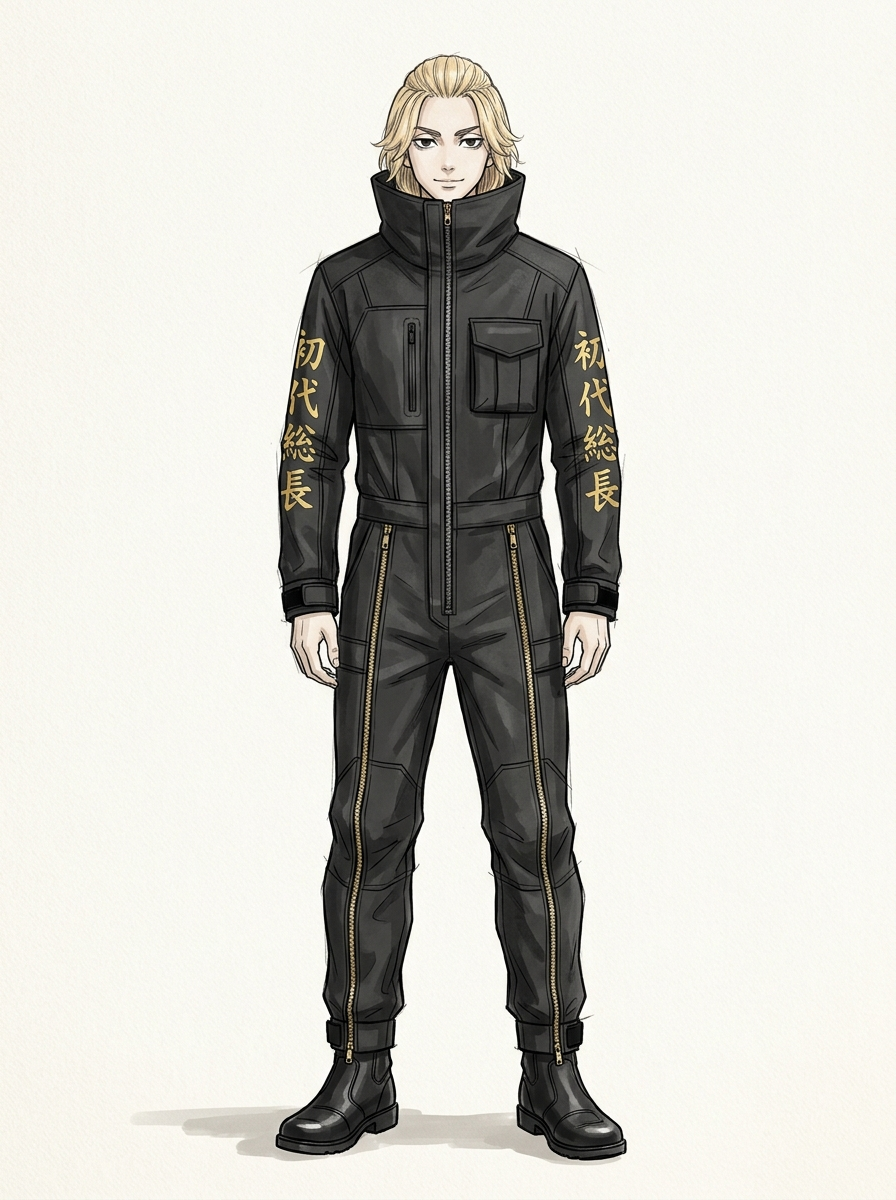
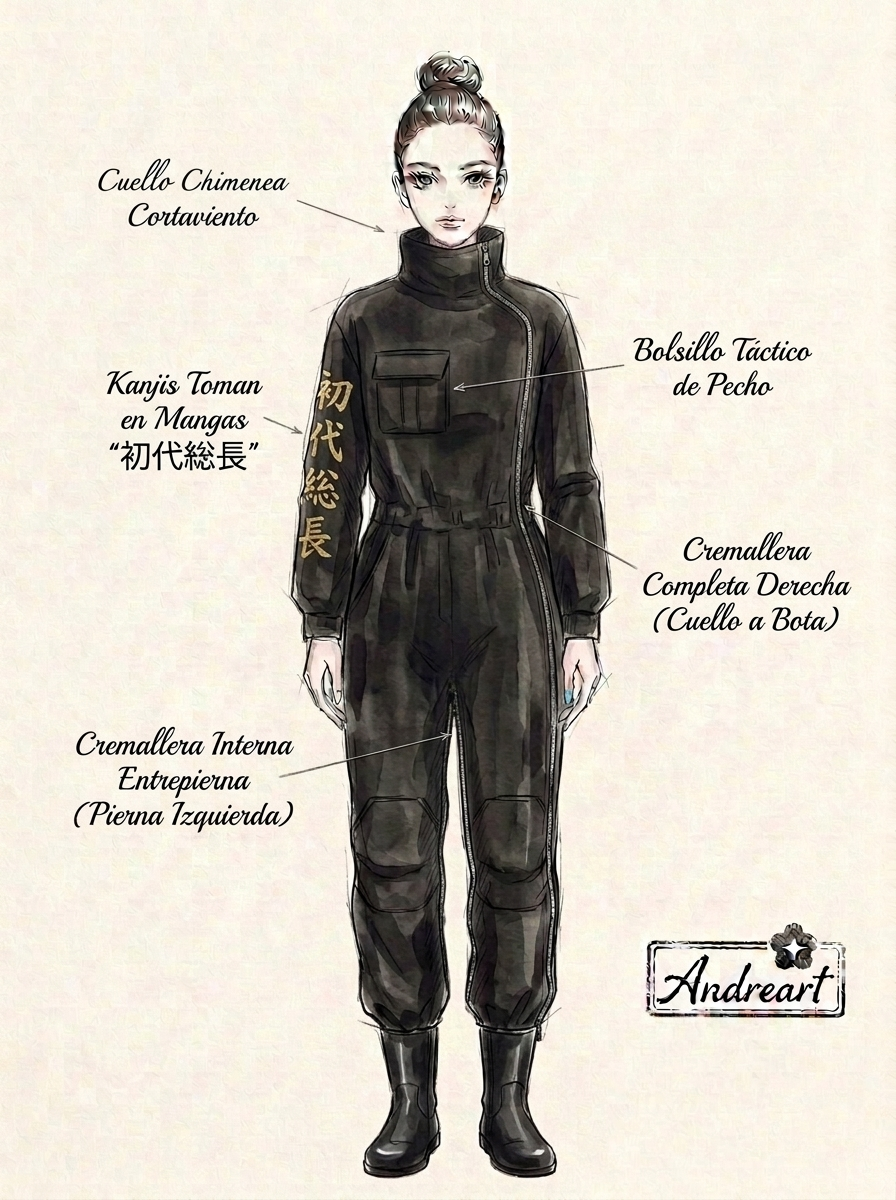
feat(over-rider-bosozoku): regenerar figurin frontal con tecnica canonica de taller y cremalleras asimetricas v1.1
- Aplicar tecnica de aguada de acuarela, tinta y lapiz sobre papel marfil (#F6F4EE) con sello Andreart
- Incorporar cremallera completa derecha (cuello a bota) y cremallera interna de entrepierna en pierna izquierda
- Preservar version previa en assets/.archive/
- Sincronizar SPEC.md, manifest.json e index.ts

diff --git a/Andreart Brain/01 Brand Context/Colecciones/Over-Rider Bosozoku/index.ts b/Andreart Brain/01 Brand Context/Colecciones/Over-Rider Bosozoku/index.ts
@@ -51,14 +51,14 @@ export const GARMENTS: CollectionGarment[] = [
     sku: 'ANDR-OVR-TOM-01',
     category: 'Prenda Enteriza Exterior (Oversuit)',
     textile: 'Cordura / Nylon Oxford 600D impermeable con forro térmico capitonado desmontable',
-    fit: 'Corte ergonómico precurvado para moto, cremalleras laterales de pierna completa, drop-seat trasero y serigrafía reflectiva kanjis Toman'
+    fit: 'Corte ergonómico precurvado para moto, cremallera completa lateral derecha (cuello a bota), cremallera interna de entrepierna en pierna izquierda, drop-seat trasero y serigrafía reflectiva kanjis Toman'
   },
   {
     name: 'Enterizo Over-Rider The Capsules',
     sku: 'ANDR-OVR-AKI-01',
     category: 'Prenda Enteriza Exterior (Oversuit)',
     textile: 'Cordura / Nylon Oxford 600D impermeable con forro térmico capitonado desmontable',
-    fit: 'Corte ergonómico precurvado para moto, cremalleras laterales de pierna completa, drop-seat trasero y emblema cápsula Akira reflectivo'
+    fit: 'Corte ergonómico precurvado para moto, cremallera completa lateral derecha (cuello a bota), cremallera interna de entrepierna en pierna izquierda, drop-seat trasero y emblema cápsula Akira reflectivo'
   }
 ];
 
@@ -70,8 +70,8 @@ export const ASSETS: Record<string, CollectionAsset> = {
     category: 'figurine',
     garment: 'Enterizo Over-Rider Toman Shodai',
     view: 'frente-pasarela',
-    description: 'Figurín de autor anime inspirado en Mikey luciendo el enterizo técnico motero en Jet Black (#0D0D0E) con cuello chimenea, cremallera central bidireccional, bolsillos técnicos y caligrafía dorada reflectiva "初代総長" en mangas.',
-    sourceReference: './references/refe-vista-frontal-puesta.jpg',
+    description: 'Figurín de autor a mano alzada en acuarela sobre papel marfil (#F6F4EE) luciendo el enterizo técnico motero en Jet Black (#0D0D0E) con cremallera completa lateral derecha (cuello a bota), cremallera interna de entrepierna en pierna izquierda, bolsillo táctico de pecho, kanjis dorados reflectivos "初代総長", llamadas técnicas y sello Andreart.',
+    sourceReference: './references/refe-vista-frontal-puesta.jpg, ./references/refe-apertura-total-capullo.jpg',
     status: 'active',
     approved: true
   },

diff --git a/Andreart Brain/01 Brand Context/Colecciones/Over-Rider Bosozoku/SPEC.md b/Andreart Brain/01 Brand Context/Colecciones/Over-Rider Bosozoku/SPEC.md
@@ -74,9 +74,9 @@ Diseñada para el motociclista contemporáneo que rechaza los uniformes genéric
 
 ## ⚙ 4. Ingeniería Textil y Ergonomía Motera
 
-### 4.1. Sistema de Apertura Dual Integral (Fast Step-In)
-• **Cremallera Central Frontal:** Cremallera continua bidireccional impermeable (cremallera de 2 carros) desde el borde del cuello chimenea hasta el tiro, cubierta por doble tapeta cortaviento con cierre hermético de velcro.  
-• **Cremalleras Laterales de Pierna Completa:** Cremalleras perimétricas que recorren desde la cadera/cintura hasta el dobladillo inferior del tobillo en ambas piernas. Permiten abrir completamente las perneras para introducir las piernas con botas gruesas de moto puestas, sin ensuciar el interior de la prenda.  
+### 4.1. Sistema de Apertura Asimétrico Fast Step-In (Ingeniería de Doble Cremallera)
+• **Cremallera Completa Continua en Lado Derecho (Cuello a Bota):** Cremallera perimétrica continua impermeable de alto calibre que recorre desde el cuello alto / hombro derecho, bajando verticalmente por el costado derecho del torso y a lo largo de toda la pernera derecha exterior hasta el tobillo y la bota. Al desabrocharse, abre todo el lateral derecho en abanico envolvente (tipo capullo) para colocarse y retirarse el enterizo en segundos con el calzado puesto.  
+• **Cremallera Interna de Entrepierna en Pierna Izquierda (Entrepierna a Bota):** Cremallera técnica continua ubicada en el borde interno (*inseam*) de la pierna izquierda, recorriendo desde el tiro / entrepierna hasta el dobladillo inferior de la bota izquierda. Facilita la entrada de la bota y el calce ergonómico sin tener que elevar la pierna.  
 • **Solapa Lumbar Abatible (*Drop-Seat*):** Cremallera horizontal continua protegida bajo un canesú cortaviento y banda reflectiva en la zona baja de la espalda. Permite abatir la parte posterior del pantalón sin desabrochar la chaqueta, brindando acceso inmediato a bolsillos traseros o uso sanitario sin retirarse el casco ni la prenda superior.
 
 ### 4.2. Climatología y Modularidad Térmica
@@ -97,7 +97,7 @@ Diseñada para el motociclista contemporáneo que rechaza los uniformes genéric
 
 #### Vista Frontal (Figurín Protagónico)
 ![[01 Brand Context/Colecciones/Over-Rider Bosozoku/assets/01-figurin-toman-shodai-frente.jpg]]
-*Figurín Frontal (Toman Shodai):* Modelo anime inspirado en Manjirō Sano ("Mikey") en postura erguida de pasarela luciendo el enterizo técnico motero en Total Jet Black mate (#0D0D0E): cuello chimenea alto (10 cm), cremallera central bidireccional continua con tapeta cortaviento, bolsillos asimétricos de pecho (fuelle a la derecha y termosellado a la izquierda), cremalleras perimétricas laterales de cintura a tobillo y los kanjis caligráficos en oro reflectivo "初代総長" en ambas mangas.
+*Figurín Frontal (Toman Shodai v1.1):* Croquis de atelier a mano alzada sobre papel marfil texturizado (#F6F4EE) con trazo a lápiz grafito fino, entintado y aguada de acuarela translúcida en negro azabache mate (#0D0D0E): modelo estilizada luciendo el enterizo técnico motero con cuello chimenea cortaviento, cremallera continua completa en el lateral derecho desde el cuello hasta la bota, cremallera técnica interna en la entrepierna de la pierna izquierda, bolsillo táctico de fuelle en pecho, kanjis caligráficos dorados reflectivos "初代総長" en manga, llamadas técnicas caligráficas y el sello oficial de autor Andreart.
 
 #### Vista Dorsal / Espalda (Figurín Protagónico)
 ![[01 Brand Context/Colecciones/Over-Rider Bosozoku/assets/02-figurin-toman-shodai-espalda.jpg]]
